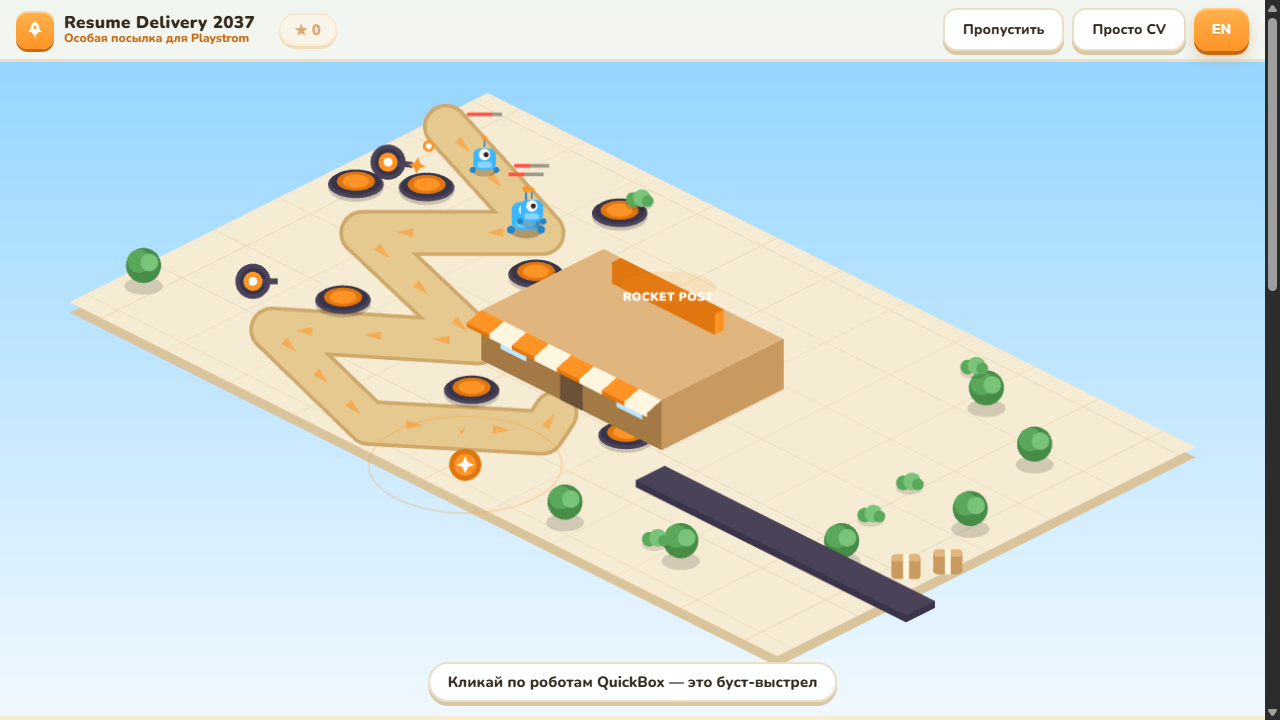
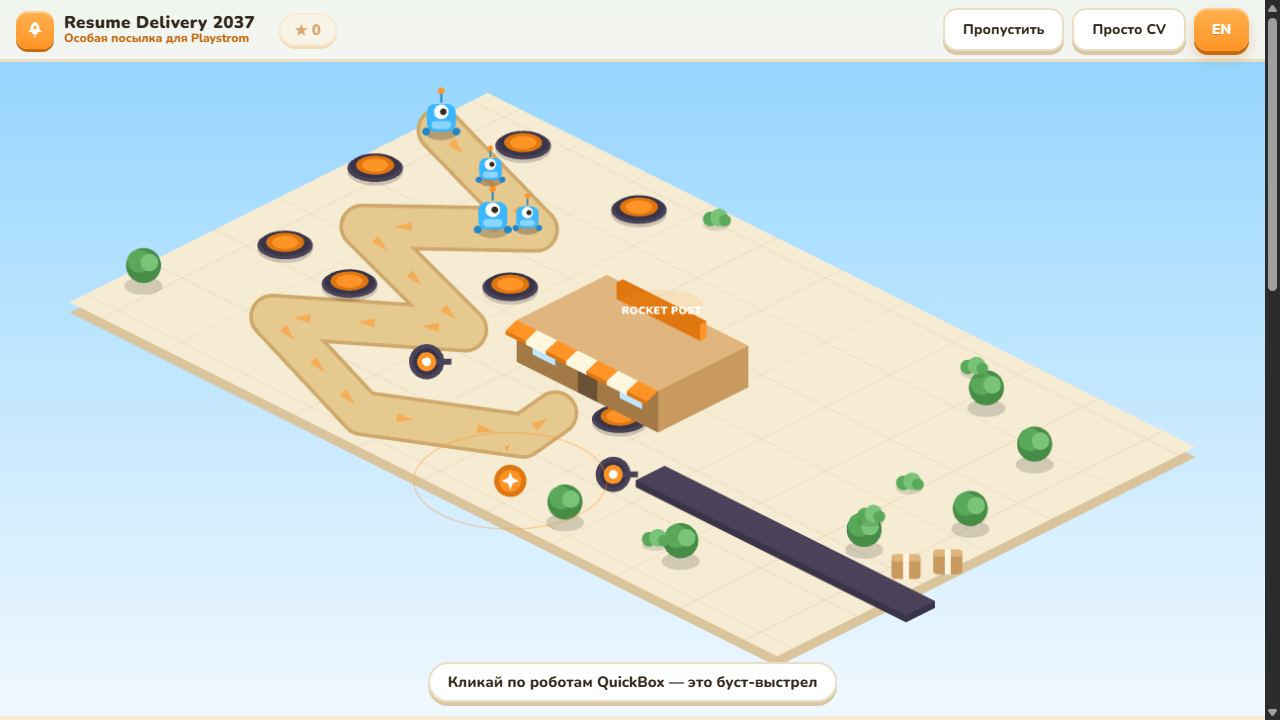
убираю наезды на карте
магазин компактнее и дорога больше не прячется под ним, площадки пересажены с выверенными зазорами от дороги и друг друга, декор отодвинут от площадок

Changed region(s): [[0.1875, 0.1222, 0.625, 0.7028], [0.625, 0.7028, 0.6875, 0.7944], [0.3438, 0.7028, 0.375, 0.7333]]

diff --git a/js/game.js b/js/game.js
@@ -498,28 +498,28 @@ export const game = {
 
     // магазин Rocket Post: окна, дверь, полосатый навес, вывеска
     const s = new PIXI.Graphics();
-    isoBox(s, -2.8, -1.9, 2.8, 1.9, 0, 1.8, C.cardboardTop, C.cardboardDark, C.cardboard);
-    poly(s, [iso(-0.35, 1.901, 1.1), iso(0.35, 1.901, 1.1), iso(0.35, 1.901, 0), iso(-0.35, 1.901, 0)], C.door);
-    poly(s, [iso(-2.2, 1.901, 1.35), iso(-1.4, 1.901, 1.35), iso(-1.4, 1.901, 0.75), iso(-2.2, 1.901, 0.75)], C.glass);
-    poly(s, [iso(1.4, 1.901, 1.35), iso(2.2, 1.901, 1.35), iso(2.2, 1.901, 0.75), iso(1.4, 1.901, 0.75)], C.glass);
-    const stripes = 8;
+    isoBox(s, -2.2, -1.4, 2.2, 1.4, 0, 1.5, C.cardboardTop, C.cardboardDark, C.cardboard);
+    poly(s, [iso(-0.3, 1.401, 0.9), iso(0.3, 1.401, 0.9), iso(0.3, 1.401, 0), iso(-0.3, 1.401, 0)], C.door);
+    poly(s, [iso(-1.7, 1.401, 1.05), iso(-1.0, 1.401, 1.05), iso(-1.0, 1.401, 0.55), iso(-1.7, 1.401, 0.55)], C.glass);
+    poly(s, [iso(1.0, 1.401, 1.05), iso(1.7, 1.401, 1.05), iso(1.7, 1.401, 0.55), iso(1.0, 1.401, 0.55)], C.glass);
+    const stripes = 7;
     for (let i = 0; i < stripes; i++) {
-      const x0 = -2.8 + (5.6 / stripes) * i, x1 = x0 + 5.6 / stripes;
-      poly(s, [iso(x0, 1.9, 1.8), iso(x1, 1.9, 1.8), iso(x1, 2.35, 1.6), iso(x0, 2.35, 1.6)], i % 2 ? C.tape : C.orange);
-      poly(s, [iso(x0, 2.35, 1.6), iso(x1, 2.35, 1.6), iso(x1, 2.35, 1.45), iso(x0, 2.35, 1.45)], i % 2 ? C.tape : C.orangeDark);
+      const x0 = -2.2 + (4.4 / stripes) * i, x1 = x0 + 4.4 / stripes;
+      poly(s, [iso(x0, 1.4, 1.5), iso(x1, 1.4, 1.5), iso(x1, 1.75, 1.32), iso(x0, 1.75, 1.32)], i % 2 ? C.tape : C.orange);
+      poly(s, [iso(x0, 1.75, 1.32), iso(x1, 1.75, 1.32), iso(x1, 1.75, 1.18), iso(x0, 1.75, 1.18)], i % 2 ? C.tape : C.orangeDark);
     }
-    isoBox(s, -1.6, -1.24, 1.6, -0.96, 1.8, 2.55, C.orangeDark, C.orangeDark, C.orange);
+    isoBox(s, -1.3, -1.0, 1.3, -0.8, 1.5, 2.1, C.orangeDark, C.orangeDark, C.orange);
     const glow = new PIXI.Graphics();
-    glow.ellipse(iso(0, -1.1, 2.5).x, iso(0, -1.1, 2.5).y, 66, 22).fill({ color: C.orange, alpha: 0.14 });
+    glow.ellipse(iso(0, -0.9, 2.05).x, iso(0, -0.9, 2.05).y, 56, 18).fill({ color: C.orange, alpha: 0.14 });
     L.store.addChild(s, glow);
     const signText = new PIXI.Text({
       text: 'ROCKET POST',
       style: { fontFamily: 'Nunito, sans-serif', fontSize: 26, fontWeight: '900', fill: 0xffffff, letterSpacing: 1 },
     });
     signText.anchor.set(0.5);
-    const sp = iso(0, -1.1, 2.2);
+    const sp = iso(0, -0.9, 1.82);
     signText.position.set(sp.x, sp.y);
-    signText.scale.set(0.62);
+    signText.scale.set(0.55);
     L.store.addChild(signText);
   },
 

diff --git a/js/data.js b/js/data.js
@@ -48,30 +48,30 @@ export const WAVES = [
 ];
 
 // маршрут роботов QuickBox — serpentine от левого края к двери Rocket Post,
-// параллельные участки разнесены, лента не складывается сама на себя
+// зазоры между дорогой, магазином и площадками выверены, без наездов
 export const PATH = [
-  [-10.6, -4.8],
-  [-5.8, -3.0],
-  [-8.6, -0.2],
-  [-3.4, 1.4],
-  [-7.0, 4.2],
-  [-2.6, 5.6],
-  [0.4, 3.2],
+  [-10.6, -4.6],
+  [-6.0, -3.0],
+  [-8.8, -0.4],
+  [-4.0, 1.2],
+  [-7.4, 3.8],
+  [-3.0, 5.4],
+  [0.2, 3.6],
   [0.0, 2.4],
 ];
 
 // площадки для башен — в карманах между участками дороги
 export const SPOTS = [
-  [-9.0, -2.6],
-  [-5.2, -4.8],
-  [-10.2, -1.6],
-  [-4.6, -1.6],
-  [-6.8, 2.2],
-  [-2.0, 3.0],
-  [-8.8, 3.0],
-  [0.2, 5.4],
-  [1.8, 2.0],
-  [-10.4, -2.8],
+  [-8.8, -5.4],
+  [-5.0, -5.2],
+  [-10.4, -2.4],
+  [-4.6, -0.8],
+  [-7.2, 1.6],
+  [-9.4, 1.4],
+  [-3.6, 2.8],
+  [1.4, 5.2],
+  [1.2, 1.6],
+  [2.8, 3.4],
 ];
 
 // ширина дороги в мировых единицах (полуширина)
@@ -79,11 +79,11 @@ export const ROAD_HALF = 0.55;
 
 // кусты и деревья по краям карты — декор
 export const DECOR_TREES = [
-  [6.5, -4.5], [9.0, -3.5], [10.0, -0.5], [9.0, 2.5], [6.5, 5.0],
+  [6.5, -4.5], [9.0, -3.5], [10.0, -0.5], [9.0, 1.8], [6.5, 5.0],
   [3.5, 5.6], [-10.4, 4.8],
 ];
 export const DECOR_BUSHES = [
-  [7.8, -0.8], [5.6, 4.9], [-5.2, -5.4], [8.2, 0.8], [5.2, -5.4],
+  [7.8, -0.8], [5.6, 4.9], [-3.4, -6.0], [8.2, 0.8], [5.2, -5.4],
 ];
 
 // дизайн-паспорт башен: явные роли и контр-плей — то, что оценивает геймдизайнер
